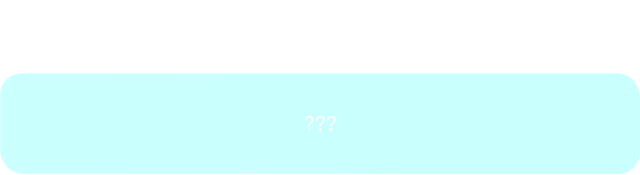
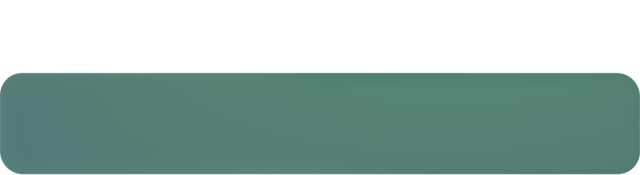
update

diff --git a/index.html b/index.html
@@ -862,6 +862,88 @@ footer{border-top:1px solid var(--border);padding:50px 48px 26px;background-imag
   </footer>
 </div>
 
+<!-- ════════════════════ PAGE: BALL ════════════════════ -->
+<div id="page-ball" class="page">
+  <button class="sp-back" onclick="selectSub('filmquest')">← Kembali ke FilmQuest</button>
+  <div onclick="showPage('home')" style="position:fixed;left:20px;top:50%;transform:translateY(-50%);width:50px;height:50px;background:var(--glass);border:2px solid var(--border);border-radius:50%;display:flex;align-items:center;justify-content:center;cursor:pointer;z-index:100;">
+    <span style="color:var(--muted);font-size:20px;">✕</span>
+  </div>
+  <div onclick="showPage('photobooth')" style="position:fixed;right:20px;top:50%;transform:translateY(-50%);width:50px;height:50px;background:var(--glass);border:2px solid var(--border);border-radius:50%;display:flex;align-items:center;justify-content:center;cursor:pointer;z-index:100;">
+    <span style="color:var(--accent);font-size:20px;">›</span>
+  </div>
+  <div style="padding-top:60px;max-width:900px;margin:0 auto;padding-left:24px;padding-right:24px;padding-bottom:60px;text-align:center;">
+    <img src="title-ball.png" alt="Title Ball" style="max-width:600px;width:100%;height:auto;margin-bottom:30px;">
+    <div style="position:relative;display:inline-block;max-width:500px;width:100%;">
+      <img src="ball1.png" alt="Ball" style="max-width:100%;width:100%;height:auto;">
+      <img src="gumball-button.png" alt="Gumball Button" style="position:absolute;top:78%;left:50%;transform:translate(-50%,-50%);max-width:100px;width:100%;height:auto;cursor:pointer;">
+    </div>
+    <img src="quote.png" alt="Quote" style="max-width:500px;width:100%;height:auto;margin-top:30px;">
+    <img src="guess.png" alt="Guess" style="max-width:500px;width:100%;height:auto;margin-top:30px;">
+  </div>
+  <footer>
+    <div class="footer-inner">
+      <div><div class="footer-logo-t">Orang Film UI</div><p class="footer-desc">Mengabadikan setiap cerita melalui lensa, cahaya, dan narasi visual yang bermakna.</p><div class="footer-socials"><a class="footer-social">ig</a><a class="footer-social">yt</a><a class="footer-social">lb</a></div></div>
+      <div><div class="footer-col-t">Learn More</div><a class="footer-link" onclick="showPage('home')">Tentang Kami</a><a class="footer-link" onclick="showFilm(0)">Our Works</a><a class="footer-link" onclick="scrollSec('sec-achievements')">Achievements</a><a class="footer-link" onclick="showPage('members')">Members</a></div>
+      <div><div class="footer-col-t">Film Funs</div><a class="footer-link" onclick="selectSub('filmfuns')">Film Funs</a><a class="footer-link" onclick="selectSub('filmquest')">FilmQuest</a><a class="footer-link" onclick="selectSub('starterkit')">StarterKit</a></div>
+      <div><div class="footer-col-t">Support</div><a class="footer-link">Kontak</a><a class="footer-link">Bantuan</a><a class="footer-link" href="https://promedui.com/form-pendaftaran-anggota/" target="_blank">@PolarLab</a></div>
+    </div>
+    <div class="footer-btm"><span class="footer-copy">© 2025 Orang Film UI — Universitas Indonesia</span><span class="footer-tag">Produksi Media</span></div>
+  </footer>
+</div>
+
+<!-- ════════════════════ PAGE: PHOTOBOOTH ════════════════════ -->
+<div id="page-photobooth" class="page">
+  <button class="sp-back" onclick="selectSub('filmquest')">← Kembali ke FilmQuest</button>
+  <div onclick="showPage('home')" style="position:fixed;left:20px;top:50%;transform:translateY(-50%);width:50px;height:50px;background:var(--glass);border:2px solid var(--border);border-radius:50%;display:flex;align-items:center;justify-content:center;cursor:pointer;z-index:100;">
+    <span style="color:var(--muted);font-size:20px;">✕</span>
+  </div>
+  <div style="padding-top:60px;max-width:900px;margin:0 auto;padding-left:24px;padding-right:24px;padding-bottom:60px;text-align:center;">
+    <img src="title-photo.png" alt="Title Photo" style="max-width:600px;width:100%;height:auto;margin-bottom:30px;">
+    <div style="position:relative;display:inline-block;max-width:500px;width:100%;">
+      <img src="Photobooth.png" alt="Photobooth" style="max-width:100%;width:100%;height:auto;">
+      <img src="photo-button.png" alt="Photo Button" onclick="showPage('camera')" style="position:absolute;top:80%;left:50%;transform:translate(-50%,-50%);max-width:120px;width:100%;height:auto;cursor:pointer;">
+    </div>
+  </div>
+  <footer>
+    <div class="footer-inner">
+      <div><div class="footer-logo-t">Orang Film UI</div><p class="footer-desc">Mengabadikan setiap cerita melalui lensa, cahaya, dan narasi visual yang bermakna.</p><div class="footer-socials"><a class="footer-social">ig</a><a class="footer-social">yt</a><a class="footer-social">lb</a></div></div>
+      <div><div class="footer-col-t">Learn More</div><a class="footer-link" onclick="showPage('home')">Tentang Kami</a><a class="footer-link" onclick="showFilm(0)">Our Works</a><a class="footer-link" onclick="scrollSec('sec-achievements')">Achievements</a><a class="footer-link" onclick="showPage('members')">Members</a></div>
+      <div><div class="footer-col-t">Film Funs</div><a class="footer-link" onclick="selectSub('filmfuns')">Film Funs</a><a class="footer-link" onclick="selectSub('filmquest')">FilmQuest</a><a class="footer-link" onclick="selectSub('starterkit')">StarterKit</a></div>
+      <div><div class="footer-col-t">Support</div><a class="footer-link">Kontak</a><a class="footer-link">Bantuan</a><a class="footer-link" href="https://promedui.com/form-pendaftaran-anggota/" target="_blank">@PolarLab</a></div>
+    </div>
+    <div class="footer-btm"><span class="footer-copy">© 2025 Orang Film UI — Universitas Indonesia</span><span class="footer-tag">Produksi Media</span></div>
+  </footer>
+</div>
+
+<!-- ════════════════════ PAGE: CAMERA ════════════════════ -->
+<div id="page-camera" class="page">
+  <button class="sp-back" onclick="showPage('photobooth')">← Kembali ke Photobooth</button>
+  <div onclick="showPage('home')" style="position:fixed;left:20px;top:50%;transform:translateY(-50%);width:50px;height:50px;background:var(--glass);border:2px solid var(--border);border-radius:50%;display:flex;align-items:center;justify-content:center;cursor:pointer;z-index:100;">
+    <span style="color:var(--muted);font-size:20px;">✕</span>
+  </div>
+  <div style="padding-top:60px;max-width:900px;margin:0 auto;padding-left:24px;padding-right:24px;padding-bottom:60px;text-align:center;">
+    <div style="position:relative;display:inline-block;width:80vw;max-width:900px;">
+      <video id="camera-feed" autoplay playsinline style="position:absolute;top:42%;left:39%;transform:translateX(-50%);width:50%;aspect-ratio:3/2;object-fit:cover;border-radius:8px;display:none;z-index:1;"></video>
+      <canvas id="photo-canvas" style="display:none;"></canvas>
+      <img src="Photobooth-Camera.png" alt="Camera" style="width:100%;height:auto;position:relative;z-index:2;">
+      <button id="capture-btn" onclick="startCamera()" style="position:absolute;top:82%;left:50%;transform:translateX(-50%);max-width:100px;width:100%;cursor:pointer;background:none;border:none;z-index:3;">
+        <div style="background:var(--accent);width:60px;height:40px;border-radius:20px;display:flex;align-items:center;justify-content:center;color:#000;font-weight:700;font-size:12px;">CAPTURE</div>
+      </button>
+      <div id="photo-preview"></div>
+      <div id="photo-strip"></div>
+    </div>
+  </div>
+  <footer>
+    <div class="footer-inner">
+      <div><div class="footer-logo-t">Orang Film UI</div><p class="footer-desc">Mengabadikan setiap cerita melalui lensa, cahaya, dan narasi visual yang bermakna.</p><div class="footer-socials"><a class="footer-social">ig</a><a class="footer-social">yt</a><a class="footer-social">lb</a></div></div>
+      <div><div class="footer-col-t">Learn More</div><a class="footer-link" onclick="showPage('home')">Tentang Kami</a><a class="footer-link" onclick="showFilm(0)">Our Works</a><a class="footer-link" onclick="scrollSec('sec-achievements')">Achievements</a><a class="footer-link" onclick="showPage('members')">Members</a></div>
+      <div><div class="footer-col-t">Film Funs</div><a class="footer-link" onclick="selectSub('filmfuns')">Film Funs</a><a class="footer-link" onclick="selectSub('filmquest')">FilmQuest</a><a class="footer-link" onclick="selectSub('starterkit')">StarterKit</a></div>
+      <div><div class="footer-col-t">Support</div><a class="footer-link">Kontak</a><a class="footer-link">Bantuan</a><a class="footer-link" href="https://promedui.com/form-pendaftaran-anggota/" target="_blank">@PolarLab</a></div>
+    </div>
+    <div class="footer-btm"><span class="footer-copy">© 2025 Orang Film UI — Universitas Indonesia</span><span class="footer-tag">Produksi Media</span></div>
+  </footer>
+</div>
+
 <!-- ════════════════════ PAGE: COLLECTION ════════════════════ -->
 <div id="page-collection" class="page">
   <button class="sp-back" onclick="showPage('claw')">← Kembali ke Claw Machine</button>
@@ -983,6 +1065,71 @@ function showPage(id){
 function selectSub(sub){
   showPage(sub);
   window.scrollTo({top:0,behavior:'smooth'});
+}
+let cameraStream=null;
+function startCamera(){
+  const video=document.getElementById('camera-feed');
+  if(cameraStream){
+    capturePhoto();
+    return;
+  }
+  navigator.mediaDevices.getUserMedia({video:true})
+    .then(stream=>{
+      cameraStream=stream;
+      video.srcObject=stream;
+      video.style.display='block';
+      document.getElementById('capture-btn').innerHTML='<div style="background:var(--accent);width:60px;height:40px;border-radius:20px;display:flex;align-items:center;justify-content:center;color:#000;font-weight:700;font-size:12px;">SNAP</div>';
+    })
+    .catch(err=>{
+      alert('Tidak dapat mengakses kamera: '+err);
+    });
+}
+let photoCount=0;
+let photoStrip=[];
+function capturePhoto(){
+  const video=document.getElementById('camera-feed');
+  const canvas=document.getElementById('photo-canvas');
+  const ctx=canvas.getContext('2d');
+  canvas.width=video.videoWidth;
+  canvas.height=video.videoHeight;
+  ctx.drawImage(video,0,0);
+  const dataUrl=canvas.toDataURL('image/png');
+  photoStrip.push(dataUrl);
+  photoCount++;
+  if(photoCount>=3){
+    showPhotoStrip();
+    stopCamera();
+  }else{
+    updatePhotoPreview();
+  }
+}
+function updatePhotoPreview(){
+  const preview=document.getElementById('photo-preview');
+  let previewHtml='<div style="margin-top:20px;display:flex;justify-content:center;gap:15px;">';
+  photoStrip.forEach((photo,i=>{
+    previewHtml+='<img src="'+photo+'" style="width:80px;height:60px;object-fit:cover;border-radius:6px;border:1px solid var(--border);">';
+  }));
+  previewHtml+='<span style="width:80px;height:60px;display:flex;align-items:center;justify-content:center;background:var(--glass);border:1px dashed var(--border);border-radius:6px;color:var(--muted);font-size:10px;">'+(photoCount+1)+'/3</span>';
+  previewHtml+='</div>';
+  preview.innerHTML=previewHtml;
+}
+function showPhotoStrip(){
+  const stripContainer=document.getElementById('photo-strip');
+  let stripHtml='<div style="margin-top:40px;text-align:center;padding:20px;background:var(--glass);border:1px solid var(--border);border-radius:16px;display:inline-block;"><h3 style="color:var(--accent);margin-bottom:20px;font-size:14px;letter-spacing:2px;">RESULT</h3><div style="display:flex;flex-direction:column;gap:12px;">';
+  photoStrip.forEach((photo,i=>{
+    stripHtml+='<img src="'+photo+'" style="max-width:220px;width:100%;height:auto;border-radius:8px;border:2px solid var(--accent);box-shadow:0 4px 15px rgba(0,0,0,0.3);">';
+  }));
+  stripHtml+='</div></div>';
+  stripContainer.innerHTML=stripHtml;
+  document.getElementById('photo-preview').innerHTML='';
+}
+function stopCamera(){
+  if(cameraStream){
+    cameraStream.getTracks().forEach(track=>track.stop());
+    cameraStream=null;
+  }
+  document.getElementById('camera-feed').style.display='none';
+  document.getElementById('capture-btn').innerHTML='<div style="background:var(--accent);width:60px;height:40px;border-radius:20px;display:flex;align-items:center;justify-content:center;color:#000;font-weight:700;font-size:12px;">CAPTURE</div>';
 }
 let currentDispensedPoster='';
 let edList=[];
